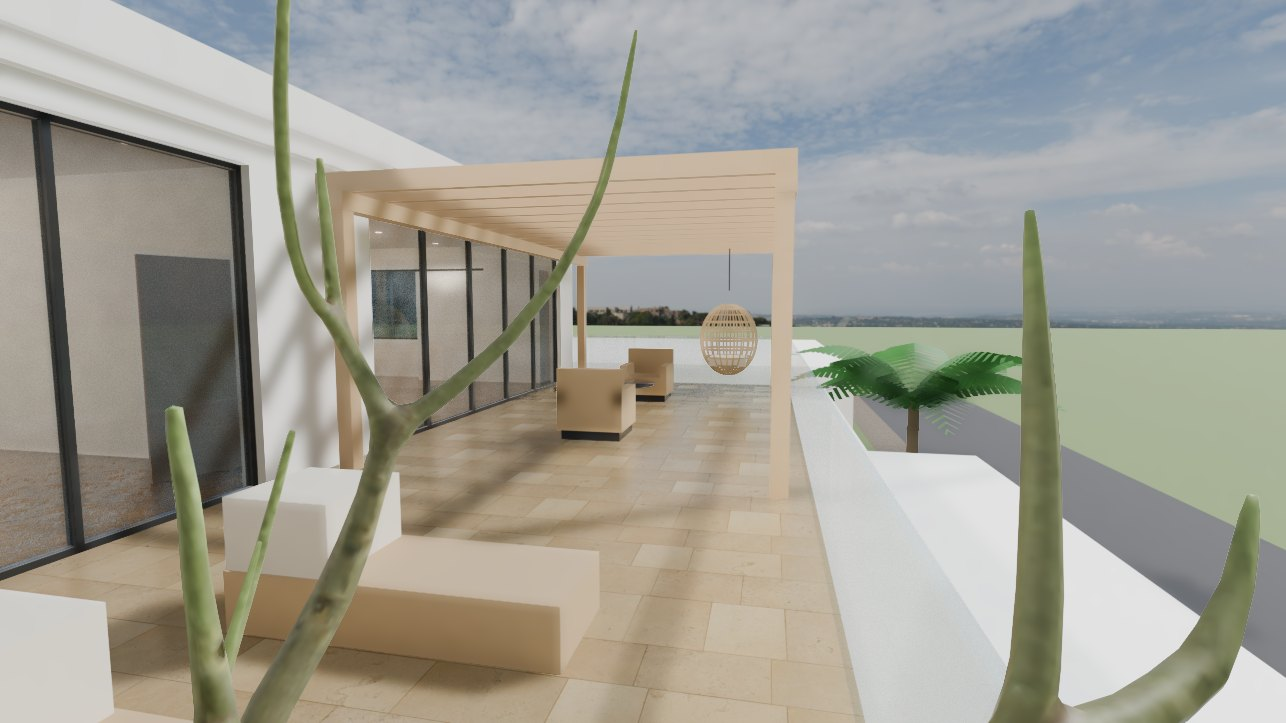
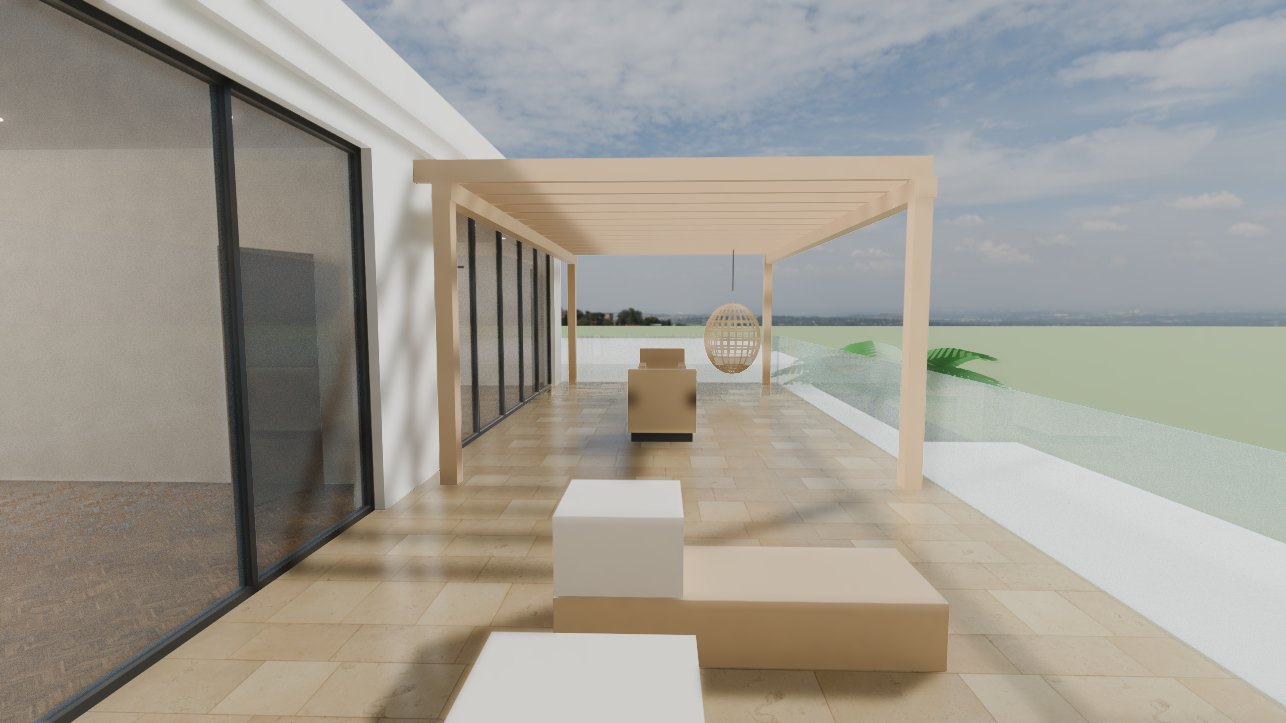
Correctifs : rechargement forcé de la visionneuse (cache), plus de maquette de remplacement trompeuse, galerie Villa Amani cohérente (6 vues)
Claude-Session: https://claude.ai/code/session_01LrC4DJPuA5sDDVnH65KNcM

diff --git a/js/projet.js b/js/projet.js
@@ -1,7 +1,7 @@
 import { CONFIG } from './config.js';
 import { getProjets, formatPrix, prixLicence, ajouterAuPanier, getPanier } from './store.js';
 import { initialiserPage, esc, carteProjet, toast, LIBELLES_TYPE, estReference, lienWhatsApp } from './ui.js';
-import { Visionneuse, vignette } from './viewer.js';
+import { Visionneuse, vignette } from './viewer.js?v=7';
 import { Visite } from './visite.js?v=6';
 
 initialiserPage();
@@ -24,8 +24,10 @@ async function demarrer() {
   const afficher3D = async () => {
     if (p.modeleGLB) {
       try { await v.chargerGLB(p.modeleGLB); } catch (e) {
-        console.warn('GLB introuvable, maquette générée utilisée', e);
-        v.afficherProjet(p.modele);
+        // pas de maquette de remplacement : elle montrerait une autre maison que celle des photos
+        console.warn('Maquette 3D non chargée', e);
+        charg.textContent = 'La maquette 3D n’a pas pu se charger. Rechargez la page (ou videz le cache du navigateur).';
+        return;
       }
     } else v.afficherProjet(p.modele);
     charg.hidden = true;

diff --git a/panier.html b/panier.html
@@ -7,7 +7,7 @@
   <link rel="preconnect" href="https://fonts.googleapis.com">
   <link rel="preconnect" href="https://fonts.gstatic.com" crossorigin>
   <link href="https://fonts.googleapis.com/css2?family=Cormorant+Garamond:wght@500;600;700&family=Inter:wght@400;500;600&display=swap" rel="stylesheet">
-  <link rel="stylesheet" href="css/style.css">
+  <link rel="stylesheet" href="css/style.css?v=7">
   <script type="importmap">
     { "imports": {
       "three": "https://cdn.jsdelivr.net/npm/three@0.160.0/build/three.module.js",
@@ -94,6 +94,6 @@
     <div id="vueConfirmation" hidden style="max-width:720px;margin:60px auto 100px"></div>
   </main>
   <footer data-footer></footer>
-  <script type="module" src="js/panier.js"></script>
+  <script type="module" src="js/panier.js?v=7"></script>
 </body>
 </html>

diff --git a/conditions.html b/conditions.html
@@ -7,7 +7,7 @@
   <link rel="preconnect" href="https://fonts.googleapis.com">
   <link rel="preconnect" href="https://fonts.gstatic.com" crossorigin>
   <link href="https://fonts.googleapis.com/css2?family=Cormorant+Garamond:wght@500;600;700&family=Inter:wght@400;500;600&display=swap" rel="stylesheet">
-  <link rel="stylesheet" href="css/style.css">
+  <link rel="stylesheet" href="css/style.css?v=7">
   <script type="importmap">
     { "imports": {
       "three": "https://cdn.jsdelivr.net/npm/three@0.160.0/build/three.module.js",
@@ -244,6 +244,6 @@
   </main>
 
   <footer data-footer></footer>
-  <script type="module" src="js/conditions.js"></script>
+  <script type="module" src="js/conditions.js?v=7"></script>
 </body>
 </html>

diff --git a/sur-mesure.html b/sur-mesure.html
@@ -8,7 +8,7 @@
   <link rel="preconnect" href="https://fonts.googleapis.com">
   <link rel="preconnect" href="https://fonts.gstatic.com" crossorigin>
   <link href="https://fonts.googleapis.com/css2?family=Cormorant+Garamond:wght@500;600;700&family=Inter:wght@400;500;600&display=swap" rel="stylesheet">
-  <link rel="stylesheet" href="css/style.css">
+  <link rel="stylesheet" href="css/style.css?v=7">
   <script type="importmap">
     { "imports": {
       "three": "https://cdn.jsdelivr.net/npm/three@0.160.0/build/three.module.js",
@@ -119,6 +119,6 @@
   </main>
 
   <footer data-footer></footer>
-  <script type="module" src="js/sur-mesure.js"></script>
+  <script type="module" src="js/sur-mesure.js?v=7"></script>
 </body>
 </html>

diff --git a/projet.html b/projet.html
@@ -7,7 +7,7 @@
   <link rel="preconnect" href="https://fonts.googleapis.com">
   <link rel="preconnect" href="https://fonts.gstatic.com" crossorigin>
   <link href="https://fonts.googleapis.com/css2?family=Cormorant+Garamond:wght@500;600;700&family=Inter:wght@400;500;600&display=swap" rel="stylesheet">
-  <link rel="stylesheet" href="css/style.css?v=4">
+  <link rel="stylesheet" href="css/style.css?v=7">
   <script type="importmap">
     { "imports": {
       "three": "https://cdn.jsdelivr.net/npm/three@0.160.0/build/three.module.js",
@@ -90,6 +90,6 @@
   </main>
 
   <footer data-footer></footer>
-  <script type="module" src="js/projet.js?v=6"></script>
+  <script type="module" src="js/projet.js?v=7"></script>
 </body>
 </html>

diff --git a/index.html b/index.html
@@ -8,7 +8,7 @@
   <link rel="preconnect" href="https://fonts.googleapis.com">
   <link rel="preconnect" href="https://fonts.gstatic.com" crossorigin>
   <link href="https://fonts.googleapis.com/css2?family=Cormorant+Garamond:wght@500;600;700&family=Inter:wght@400;500;600&display=swap" rel="stylesheet">
-  <link rel="stylesheet" href="css/style.css">
+  <link rel="stylesheet" href="css/style.css?v=7">
   <script type="importmap">
     { "imports": {
       "three": "https://cdn.jsdelivr.net/npm/three@0.160.0/build/three.module.js",
@@ -131,6 +131,6 @@
   </section>
 
   <footer data-footer></footer>
-  <script type="module" src="js/accueil.js"></script>
+  <script type="module" src="js/accueil.js?v=7"></script>
 </body>
 </html>

diff --git a/admin.html b/admin.html
@@ -8,7 +8,7 @@
   <link rel="preconnect" href="https://fonts.googleapis.com">
   <link rel="preconnect" href="https://fonts.gstatic.com" crossorigin>
   <link href="https://fonts.googleapis.com/css2?family=Cormorant+Garamond:wght@500;600;700&family=Inter:wght@400;500;600&display=swap" rel="stylesheet">
-  <link rel="stylesheet" href="css/style.css">
+  <link rel="stylesheet" href="css/style.css?v=7">
   <script type="importmap">
     { "imports": {
       "three": "https://cdn.jsdelivr.net/npm/three@0.160.0/build/three.module.js",
@@ -259,6 +259,6 @@
   </main>
 
   <footer data-footer></footer>
-  <script type="module" src="js/admin.js"></script>
+  <script type="module" src="js/admin.js?v=7"></script>
 </body>
 </html>

diff --git a/js/admin.js b/js/admin.js
@@ -4,7 +4,7 @@ import {
   getCommandes, majCommande, formatPrix, prixLicence, getRequetesLocales,
 } from './store.js';
 import { initialiserPage, esc, toast } from './ui.js';
-import { Visionneuse } from './viewer.js';
+import { Visionneuse } from './viewer.js?v=7';
 import { MODELE_DEFAUT } from './builder3d.js';
 import { journaliser, sha256 } from './journal.js';
 import { initialiserHistorique } from './historique.js';

diff --git a/js/studio/app.js b/js/studio/app.js
@@ -2,7 +2,7 @@
 import { CONFIG } from '../config.js';
 import { getProjets, enregistrerProjetsLocaux } from '../store.js';
 import { journaliser } from '../journal.js';
-import { Visionneuse } from '../viewer.js';
+import { Visionneuse } from '../viewer.js?v=7';
 import {
   nouvelleEtude, nouveauNiveau, uid, longueur, aire, metreEtude, resumePourAgents, niveauDepuisProposition,
   fmt, PRIX_DEFAUT, ouvertureValide,

diff --git a/js/accueil.js b/js/accueil.js
@@ -1,7 +1,7 @@
 import { CONFIG } from './config.js';
 import { getProjets, formatPrix, transmettre, genererRefRequete } from './store.js';
 import { initialiserPage, carteProjet, esc, LIBELLES_TYPE, toast, blocContacts, lienWhatsApp, blocConfidentialite } from './ui.js';
-import { Visionneuse, vignette } from './viewer.js';
+import { Visionneuse, vignette } from './viewer.js?v=7';
 
 initialiserPage('catalogue');
 

diff --git a/js/panier.js b/js/panier.js
@@ -4,7 +4,7 @@ import {
   enregistrerCommande, genererReference, transmettre,
 } from './store.js';
 import { initialiserPage, esc, toast, lienWhatsApp, blocConfidentialite, PHRASE_CONFIDENTIALITE } from './ui.js';
-import { vignette } from './viewer.js';
+import { vignette } from './viewer.js?v=7';
 
 initialiserPage('panier');
 

diff --git a/studio.html b/studio.html
@@ -100,6 +100,6 @@
 
   <div id="modale" class="modale" hidden><div id="modaleContenu" class="modale-contenu"></div></div>
 
-  <script type="module" src="js/studio/app.js"></script>
+  <script type="module" src="js/studio/app.js?v=7"></script>
 </body>
 </html>
